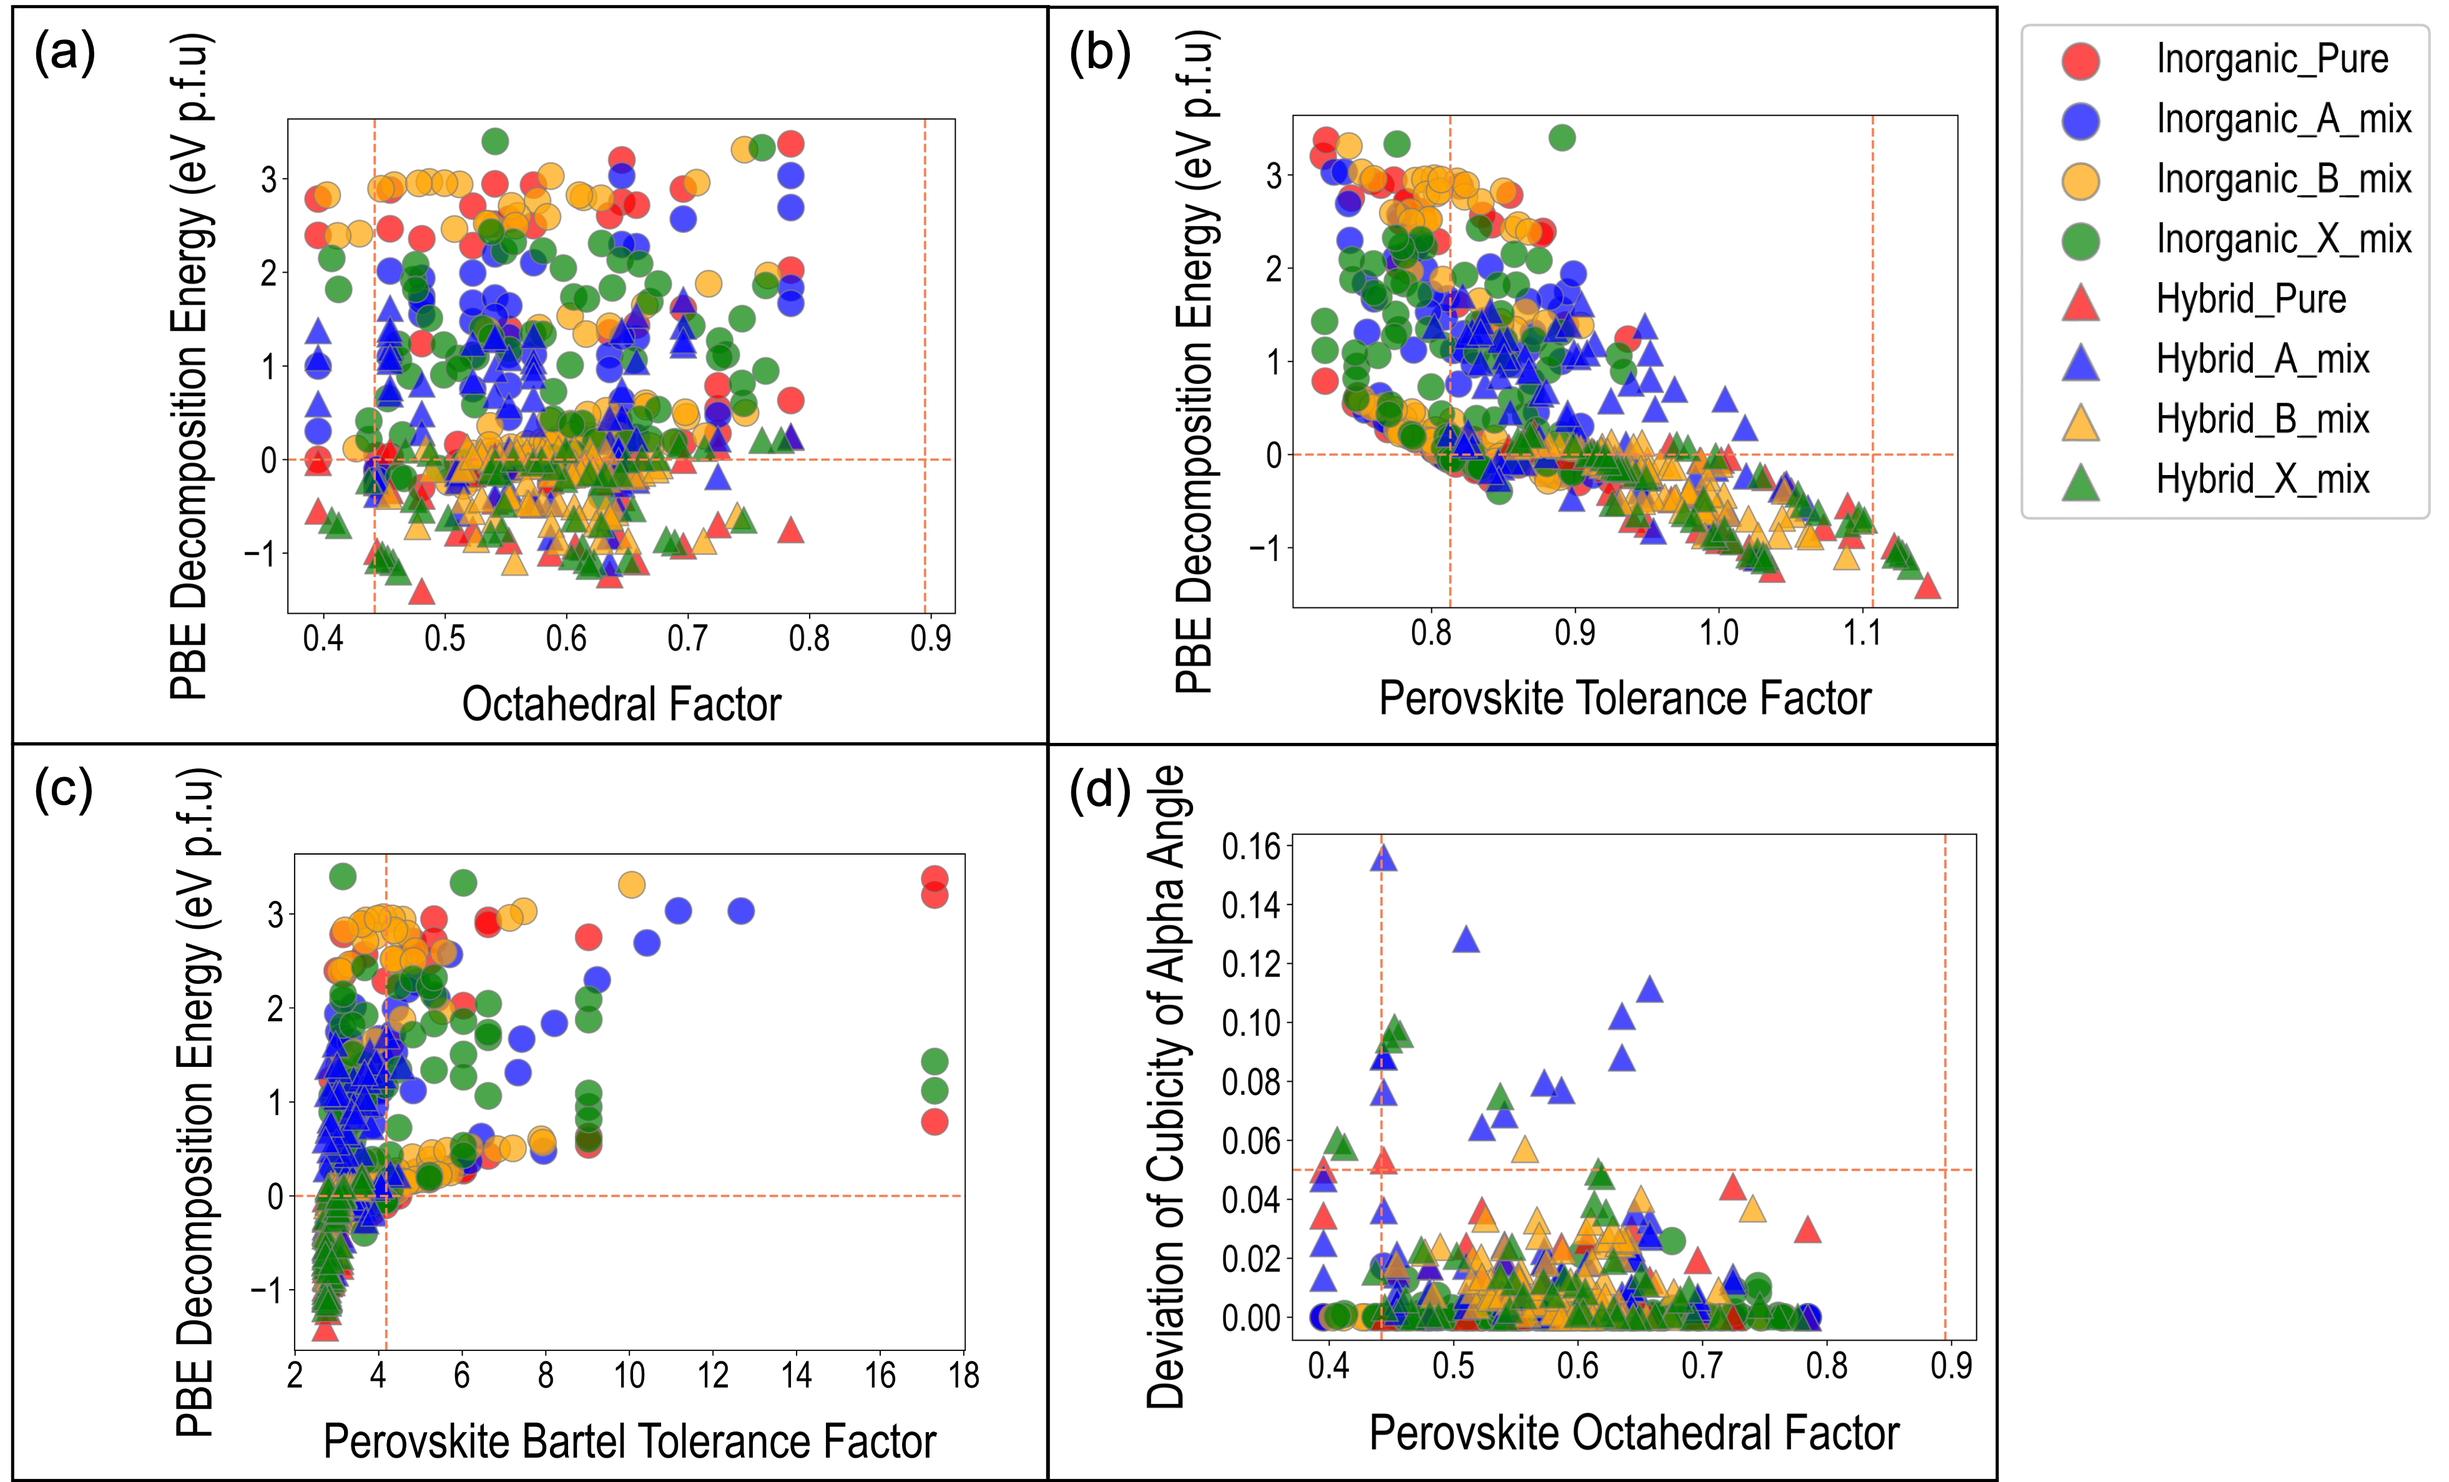
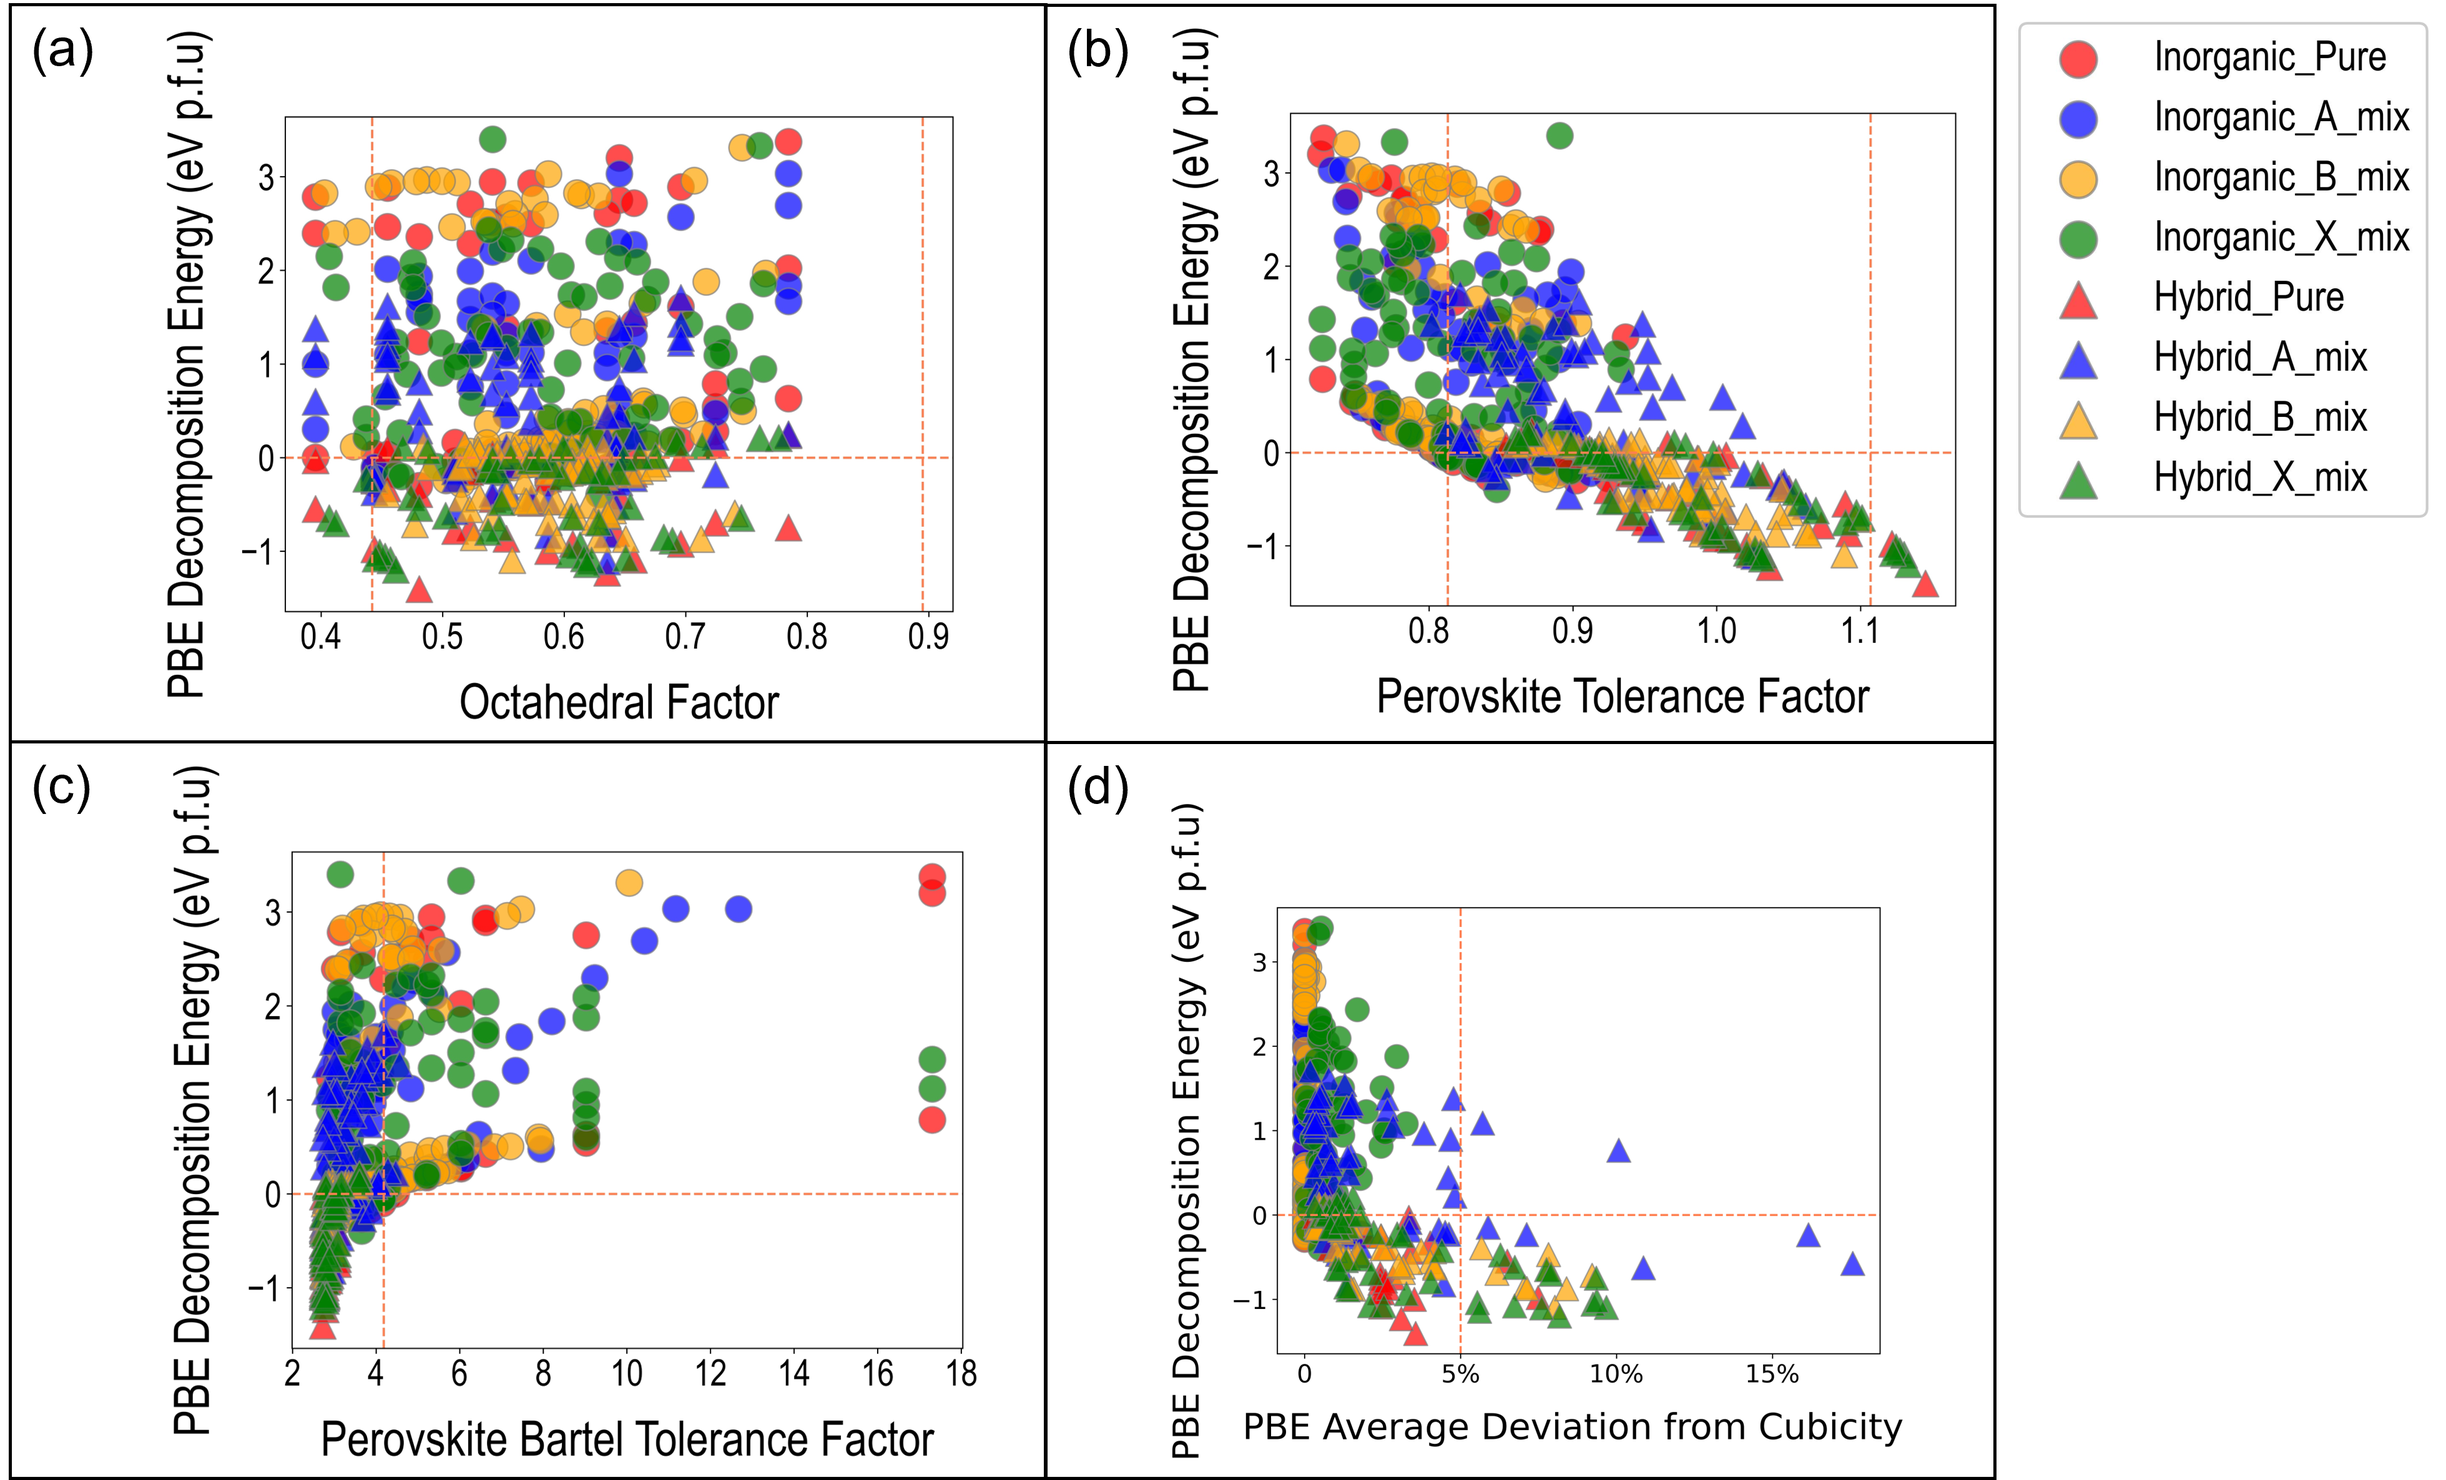
Update on Overleaf.

diff --git a/main.tex b/main.tex
@@ -1,6 +1,6 @@
 % Created 2022-07-13 Wed 10:22
 % Intended LaTeX compiler: pdflatex
-\documentclass[twoside, twocolumn, 9pt, draft]{article}
+\documentclass[twoside, twocolumn, 9pt]{article}
 \usepackage[utf8]{inputenc}
 \usepackage[T1]{fontenc}
 \usepackage{graphicx}
@@ -486,7 +486,7 @@ E_{decomp} = E_{opt}(ABX_3) - E_{opt}(AX) - E_{opt}(BX2)
 The \gls{slme} metric developed by \citet{yu-2012-ident-poten} is used as the
 primary criterion screening perovskites for their photovoltaic
 merits. The \gls{slme} value is computed considering a 5\(\mu\)m absorption
-layer for every Perovskite according to equation \eqref{eq:slme}.
+layer for every Perovskite according to equation \eqref{eq:absorbtion_alpha}.
 
 \begin{equation}\label{eq:absorption_alpha}
 a(E)=1-e^{-2\alpha(E)L}
@@ -567,13 +567,13 @@ explain the disagreement in the parity plots.
 \begin{tabular}{ll}
 HSE v EXP & PBE v EXP\\
 \hline
- & \\
+0.5798 & 0.3338\\
 \end{tabular}
 \end{table}
 
 \subsubsection*{Decomposition energy vs band gap PBE and HSE}
 \label{sec:org27907dd}
-Fig 2(b) is showing the \acrshort{pbe} band gap compared to the
+Fig \ref{fig:pairplots}(b) is showing the \acrshort{pbe} band gap compared to the
 \acrshort{pbe} decomposition energy. It presents the diversity
 of our Perovskite dataset. The data sets cover a large range of band
 gap and decomposition energy. For example, we have Perovskite with low
@@ -582,7 +582,7 @@ decomposition energy (good stability) and suitable band gap value
 we can also find samples with low stability and large band gap. The
 distribution of band gap and decomposition energy shows a great
 diversity of all Perovskite samples and indicates that our data set
-can statistically represent a sufficient Perovskite space. Fig 2(c)
+can statistically represent a sufficient Perovskite space. Fig \ref{fig:pairplots}(c)
 shows the plot of \acrshort{pbe} band gaps and
 \acrshort{hse} decomposition energy. Since we applied
 \acrshort{hse} calculations for part of the samples, it shows
@@ -592,11 +592,11 @@ decomposition energy region and suitable band gap region.
 
 \subsubsection*{Spectroscopic Limited Maximum Efficiency (SLME) vs PBE Band gap}
 \label{sec:org7f0e476}
-Fig 2(d) presents the \gls{slme} values related to the
+Fig \ref{fig:pairplots}(d) presents the \gls{slme} values related to the
 \acrshort{pbe} band gap. \gls{slme} is a proven proxy
 for photovoltaic performance
 \cite{yu-2012-ident-poten}. \gls{slme} measures the
-absorption efficiency of light for the Perovskite. As Fig 2(d)
+absorption efficiency of light for the Perovskite. As Fig \ref{fig:pairplots}(d)
 showing, a peak around 1.5 eV is obvious. The peak indicates that
 these samples with 1.5 eV \acrshort{pbe} band gap will also
 have best absorption efficiency as photovoltaic materials. As the band
@@ -689,7 +689,7 @@ constraint.
 \begin{figure*}
 \centering
 \includegraphics[width=.9\linewidth]{./figs/screening_factor.png}
-\caption{\label{fig:cuts} Screening results of Decomposition Energy for (a) octahedral factor (b) Tolerance Factor (c) Bartel Tolerance Factor (d) Deviation of Cubicity.}
+\caption{\label{fig:cuts} Screening results of Decomposition Energy for (a) octahedral factor (b) Tolerance Factor (c) Bartel Tolerance Factor (d) Deviation from Cubicity.}
 \end{figure*}
 
 \begin{figure*}
@@ -712,45 +712,73 @@ elements. For these largely deformed samples, they are no longer
 remain a cubic perovskite structure. In this section, we want to
 analyst how the structure is apart from the cubic perovskite structure
 and rule out these largely deformed samples. Firstly, we need to
-define deviation of cubicity. For each perovskite sample, we measure
+define deviation from cubicity. For each perovskite sample, we measure
 the difference between b, c lattice parameter against a lattice,
-showing in Equation X. If the lattice deviation of cubicity is larger
+showing in Equation \ref{eq:cubicity_l}. If the lattice deviation from cubicity is larger
 than 10\%, we will consider this perovskite is no longer remain a cubic
 perovskite and exclude it.  Similarly, we also need to consider 3
-angles, , and , to make sure the angle also remain 90 degrees. We
-calculated the difference of , and versus 90 degrees, showing in
-Equation X, and take this as angular deviation of cubicity. We also
-consider the samples that have more than 5\% of angular deviation of
-cubicity are not cubic perovskites and exclude them. Fig 7 (d) shows
-the screening results for angle deviation of cubicity. SI Fig X shows
-the screening results for b, c lattice and , angle. Most of the
+angles $\alpha$, $\beta$, and $\gamma$, to make sure the angle also remain 90 degrees. We
+calculated the difference of each angle versus 90 degrees, showing in
+Equation \ref{eq:cubicity_aplha}, and take this as angular deviation from cubicity. We also
+consider the samples that have more than 5\% of angular deviation from
+cubicity are not cubic perovskites and exclude them. 
+Fig \ref{fig:cuts}(d) shows
+the screening results for average deviation from cubicity. Figure \ref{fig:cub_b}, \ref{fig:cub_c},  \ref{fig:cub_alpha}, \ref{fig:cub_beta}, and \ref{fig:cub_gamma}shows
+the screening results for b, c lattice and $\alpha$,$\beta$,$\gamma$ angle respectively. Most of the
 samples with non-cubic perovskites structures are organic-inorganic
 hybrid perovskites. A large part of the excluded samples are A-mixing
 hybrid perovskites. It indicates that organic ligands in A site
 sometimes increase the lattice along some direction and make the
 perovskite deformed.
 
+\begin{equation}\label{eq:cubicity_l}
+DC_b=\frac{|b-a|}{a}
+\end{equation}
+\begin{equation}\label{eq:cubicity_aplha}
+DC_\alpha=\frac{|\alpha-90^{\circ}|}{90^{\circ}}
+\end{equation}
+\begin{equation}\label{eq:cubicity_avg}
+DC_{avg}=\frac{DC_b+DC_c+DC_\alpha+DC_\beta+DC_\gamma}{5}
+\end{equation}
+
+
 \subsubsection*{Octahedral factor, tolerance factor, and Bartel tolerance factor}
 \label{sec:orgb08e02b}
 The stability of Perovskite can be predicted by using the atom radius
 of all components. There are 3 types of factors are usually
 considered, Octahedral factor, tolerance factor, and Bartel tolerance
-factor. The formula of these three factors are shown in equation
-XXX. In our screening process, we set the criteria for Octahedral
+factor.\cite{bartel-2019-new-toler} The formula of these three factors are shown in equation
+\ref{eq:factor_o}, \ref{eq:factor_t} and \ref{eq:factor_b}. In our screening process, we set the criteria for Octahedral
 factor as 0.442 -- 0.895. The criteria for tolerance factor is set to
 be 0.813 -- 1.107.  The criteria for Bartel tolerance factor is set to
-be less than 4.18.  Fig 7 (a) shows the Octahedral factor versus
-decomposition energy plot.  Fig 7 (b) shows the tolerance factor
+be less than 4.18.  Fig \ref{fig:cuts}(a) shows the Octahedral factor versus
+decomposition energy plot.  Fig \ref{fig:cuts}(b) shows the tolerance factor
 versus decomposition energy plot.  The tolerance factor shows a trend
 that as the tolerance factor increases, the decomposition energy
-decreases. Fig 7 (c) shows the Bartel tolerance factor versus
+decreases. Fig \ref{fig:cuts}(c) shows the Bartel tolerance factor versus
 decomposition energy plot. Within the criteria of Bartel tolerance
 factor, the decomposition energy is rapidly decreased.
+\\
+\\
+octahedral factor:
+\begin{equation}\label{eq:factor_o}
+o=\frac{r_B}{r_X}
+\end{equation}
+\\
+tolerance factor: 
+\begin{equation}\label{eq:factor_t}
+t=\frac{r_A+r_X}{\sqrt{2}(r_B+r_X)}
+\end{equation}
+\\
+Bartel\cite{bartel-2019-new-toler} tolerance factor: 
+\begin{equation}\label{eq:factor_b}
+t_{Bartel}=\frac{r_X}{r_B}-[1-\frac{\frac{r_A}{r_B}}{ln(\frac{r_A}{r_B})}]
+\end{equation}
 
 \subsubsection*{Screening Results}
 \label{sec:orgda8a4ea}
-The table XXX shows all 41 promising candidates we screened from our
-dataset by using the cutoff criteria mentioned above. FigXXX shows the
+The Fig\ref{fig:screen_table} shows all 41 promising candidates we screened from our
+dataset by using the cutoff criteria mentioned above. Fig\ref{fig:leftover}(a) shows the
 element distribution of all decent samples. It indicates that MA and
 FA are the most common A site choices for a Perovskite with great
 stability and suitable band gap and photovoltaic properties. For
@@ -758,10 +786,10 @@ inorganic A sites, Cs also contributes a large portion. In B site
 element selection, Pb and Sn are the most selected than other B site
 elements. For X site halide elements, Br is appears the most, and I is
 the second. It tells us that Br and I are preferred in a stable
-Perovskite structure. In figure XXX, the mixing distribution indicates
+Perovskite structure. In Fig\ref{fig:leftover}(b), the mixing distribution indicates
 that X-site mixing is more favorable to generate a stable Perovskite
 with required properties. Tuning in A sites and B sites can also lead
-to a promising results but more risky.  The FigXXX and SI FIGXXX shows
+to a promising results but more risky.  The Figure\ref{fig:leftover_comp}, \ref{fig:screened_frac_A}, \ref{fig:screened_frac_B} and \ref{fig:screened_frac_X} shows
 the element fraction for each of the screened samples. It indicates if
 certain element prefer to be mixing or non-mixing. For example, Cl is
 preferred to be pure in X site than mixing with other elements. Also
@@ -898,19 +926,56 @@ clusters at Purdue.
 
 \begin{figure*}
 \centering
+\includegraphics[width=.9\linewidth]{./figs/cub_b_decomp.png}
+\caption{\label{fig:cub_b} PBE Deviation from Cubicity plot at b axis}
+\end{figure*}
+
+\begin{figure*}
+\centering
+\includegraphics[width=.9\linewidth]{./figs/cub_c_decomp.png}
+\caption{\label{fig:cub_c} PBE Deviation from Cubicity plot at c axis}
+\end{figure*}
+
+\begin{figure*}
+\centering
+\includegraphics[width=.9\linewidth]{./figs/cub_alpha_decomp.png}
+\caption{\label{fig:cub_alpha} PBE Deviation from Cubicity plot at alpha}
+\end{figure*}
+
+\begin{figure*}
+\centering
+\includegraphics[width=.9\linewidth]{./figs/cub_beta_decomp.png}
+\caption{\label{fig:cub_beta} PBE Deviation from Cubicity plot at beta}
+\end{figure*}
+
+\begin{figure*}
+\centering
+\includegraphics[width=.9\linewidth]{./figs/cub_gamma_decomp.png}
+\caption{\label{fig:cub_gamma} PBE Deviation from Cubicity plot at gamma}
+\end{figure*}
+
+
+\begin{figure*}
+\centering
 \includegraphics[width=.9\linewidth]{./expval/Element_AFrac.jpg}
-\caption{\label{fig:sreened_frac_A} Element Fraction for A site elements among all screened perovskites}
+\caption{\label{fig:screened_frac_A} Element Fraction for A site elements among all screened perovskites}
 \end{figure*}
 
 \begin{figure*}
 \centering
 \includegraphics[width=.9\linewidth]{./expval/Element_BFrac.jpg}
-\caption{\label{fig:sreened_frac_B} Element Fraction for B site elements among all screened perovskites}
+\caption{\label{fig:screened_frac_B} Element Fraction for B site elements among all screened perovskites}
 \end{figure*}
 
 \begin{figure*}
 \centering
 \includegraphics[width=.9\linewidth]{./expval/Element_XFrac.jpg}
-\caption{\label{fig:sreened_frac_X} Element Fraction for X site elements among all screened perovskites}
+\caption{\label{fig:screened_frac_X} Element Fraction for X site elements among all screened perovskites}
+\end{figure*}
+
+\begin{figure*}
+\centering
+\includegraphics[width=.7\linewidth]{./figs/Screening_formula.png}
+\caption{\label{fig:screen_table} Promising Perovskite Compounds Selected from Screening}
 \end{figure*}
 \end{document}
